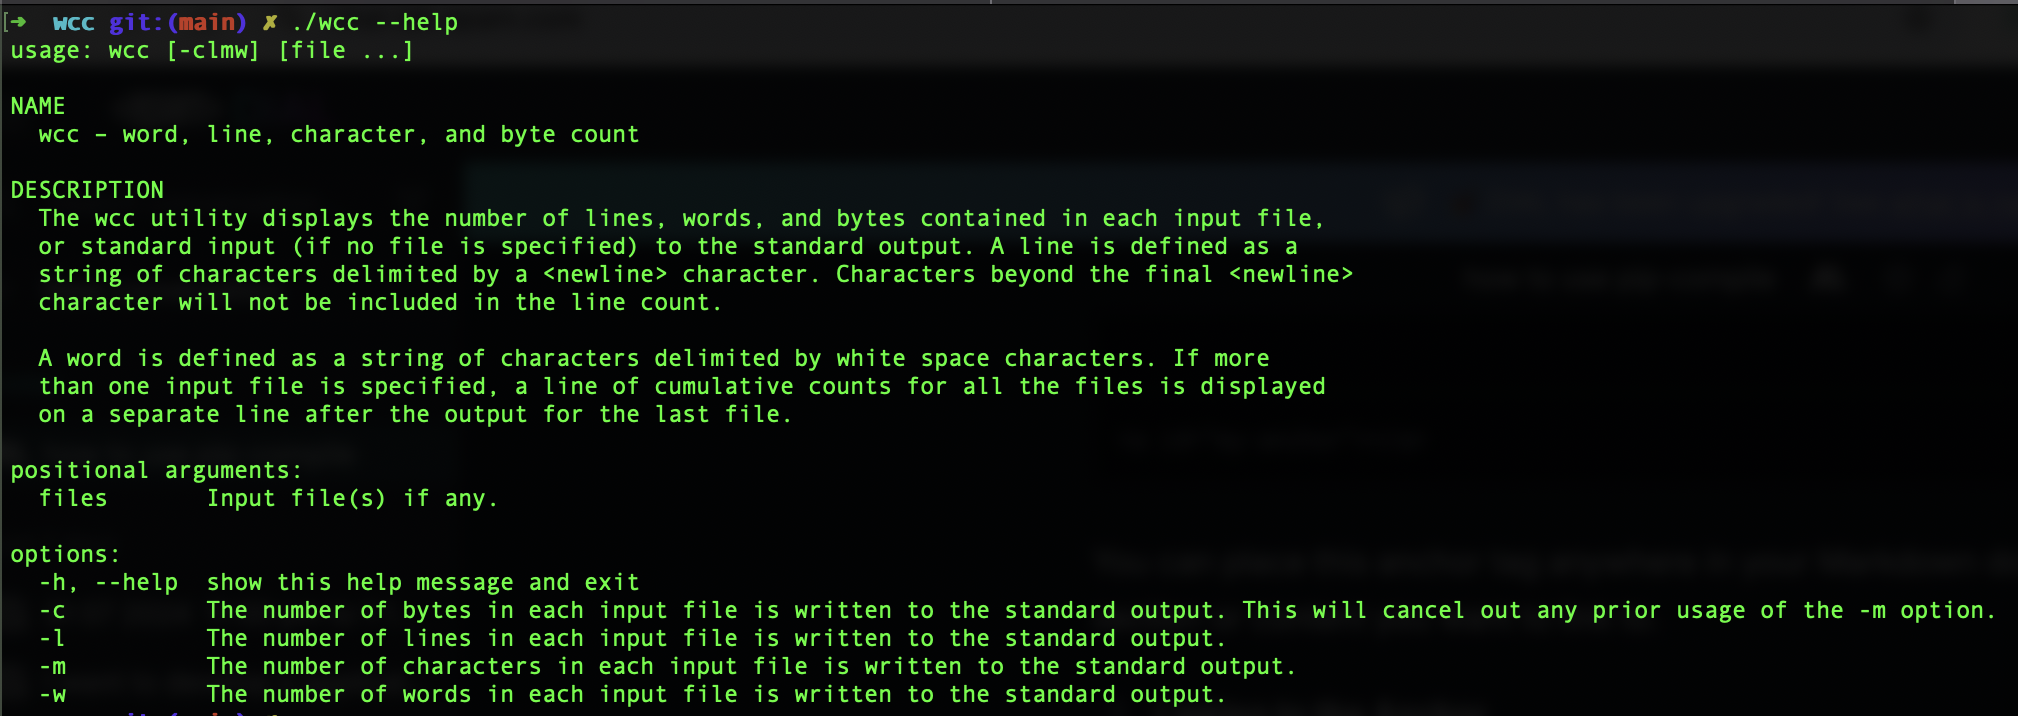
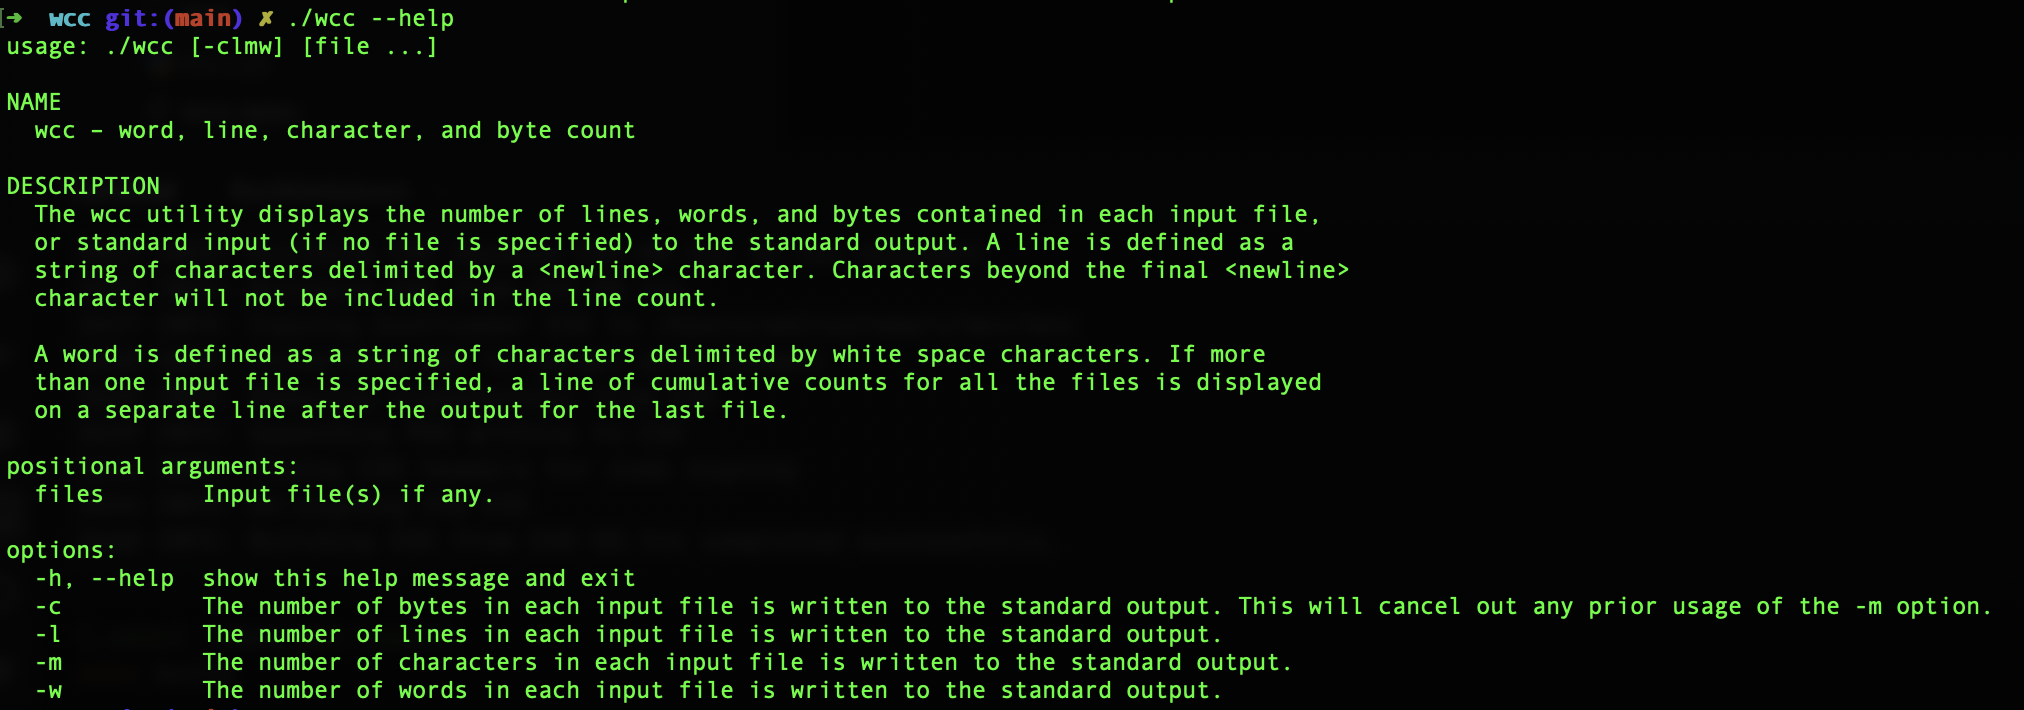
Add details in README and add images

diff --git a/README.md b/README.md
@@ -3,8 +3,53 @@ This is a python implementation of the Unix utility `wc`.
 
 This CLI is build purely using python and no other third party libraries have been used.
 
+Inorder to use this CLI, we just need to use the generated executable file in root folder.
+
+```bash
+./wcc --help
+```
+
+> **Note:** The current executable is generated in macOS, please follow [this](#generate-executable) step(s)
+> to generate new executable.
+
 ## Features
 
-- Line Count
+- Help text
+- Line count
+- Word count
+- Character count
+- Byte count
+- Multiple file support
+- Read from stdin ( | )
+- Handling error
 
+## Demo
 
+### Help Text
+<img src="images/help-text.png" alt="Help Text" title="Help Text">
+
+### Commands
+<img src="images/commands.png" alt="Commands" title="Commands">
+
+<a id="generate-executable"></a>
+## Generate Executable
+
+- Clone or Download this repository
+
+```bash
+   git clone <HTTPS URL> or <SSH>
+```
+
+- Move to the root directory
+
+```bash
+   cd wcc
+```
+
+- Run the below make command
+
+```bash
+   make build
+```
+
+Enjoy 🎉
